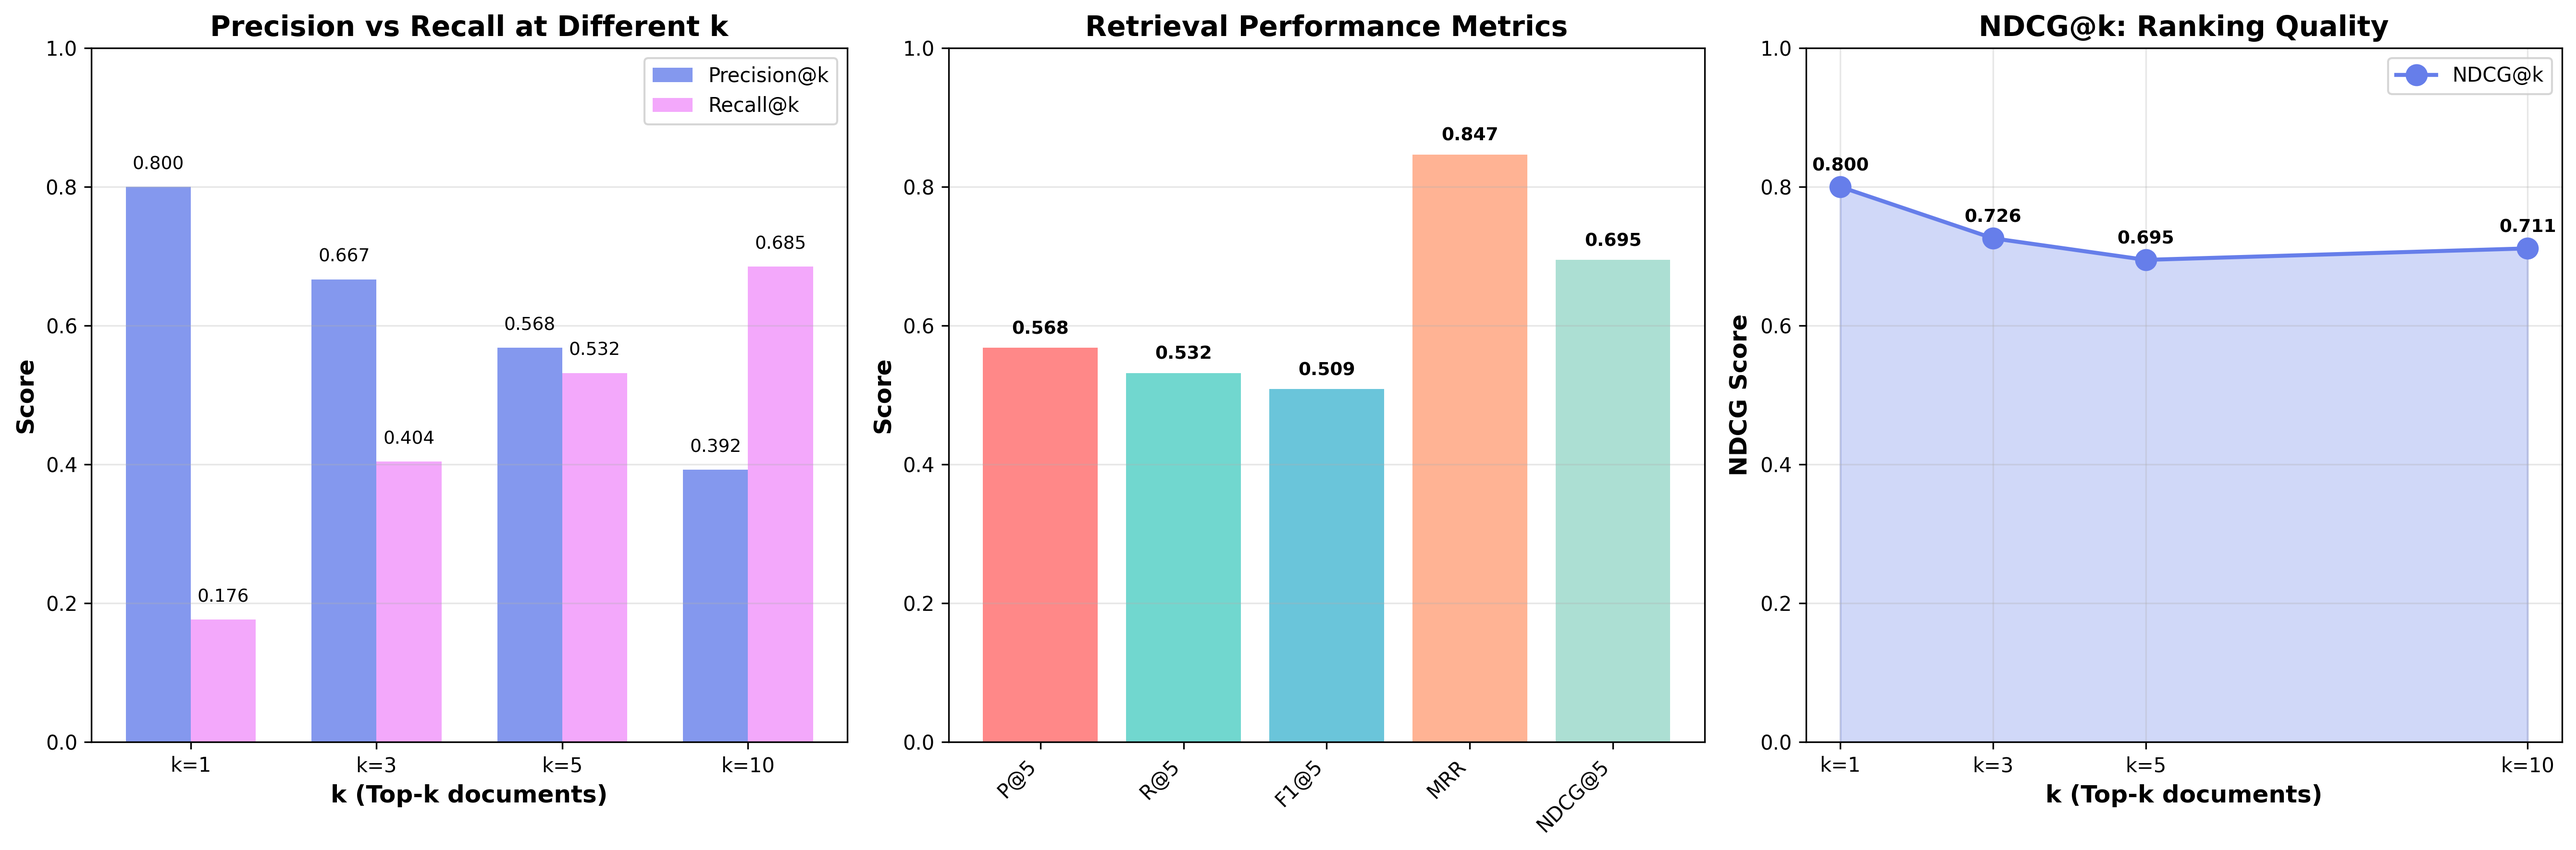
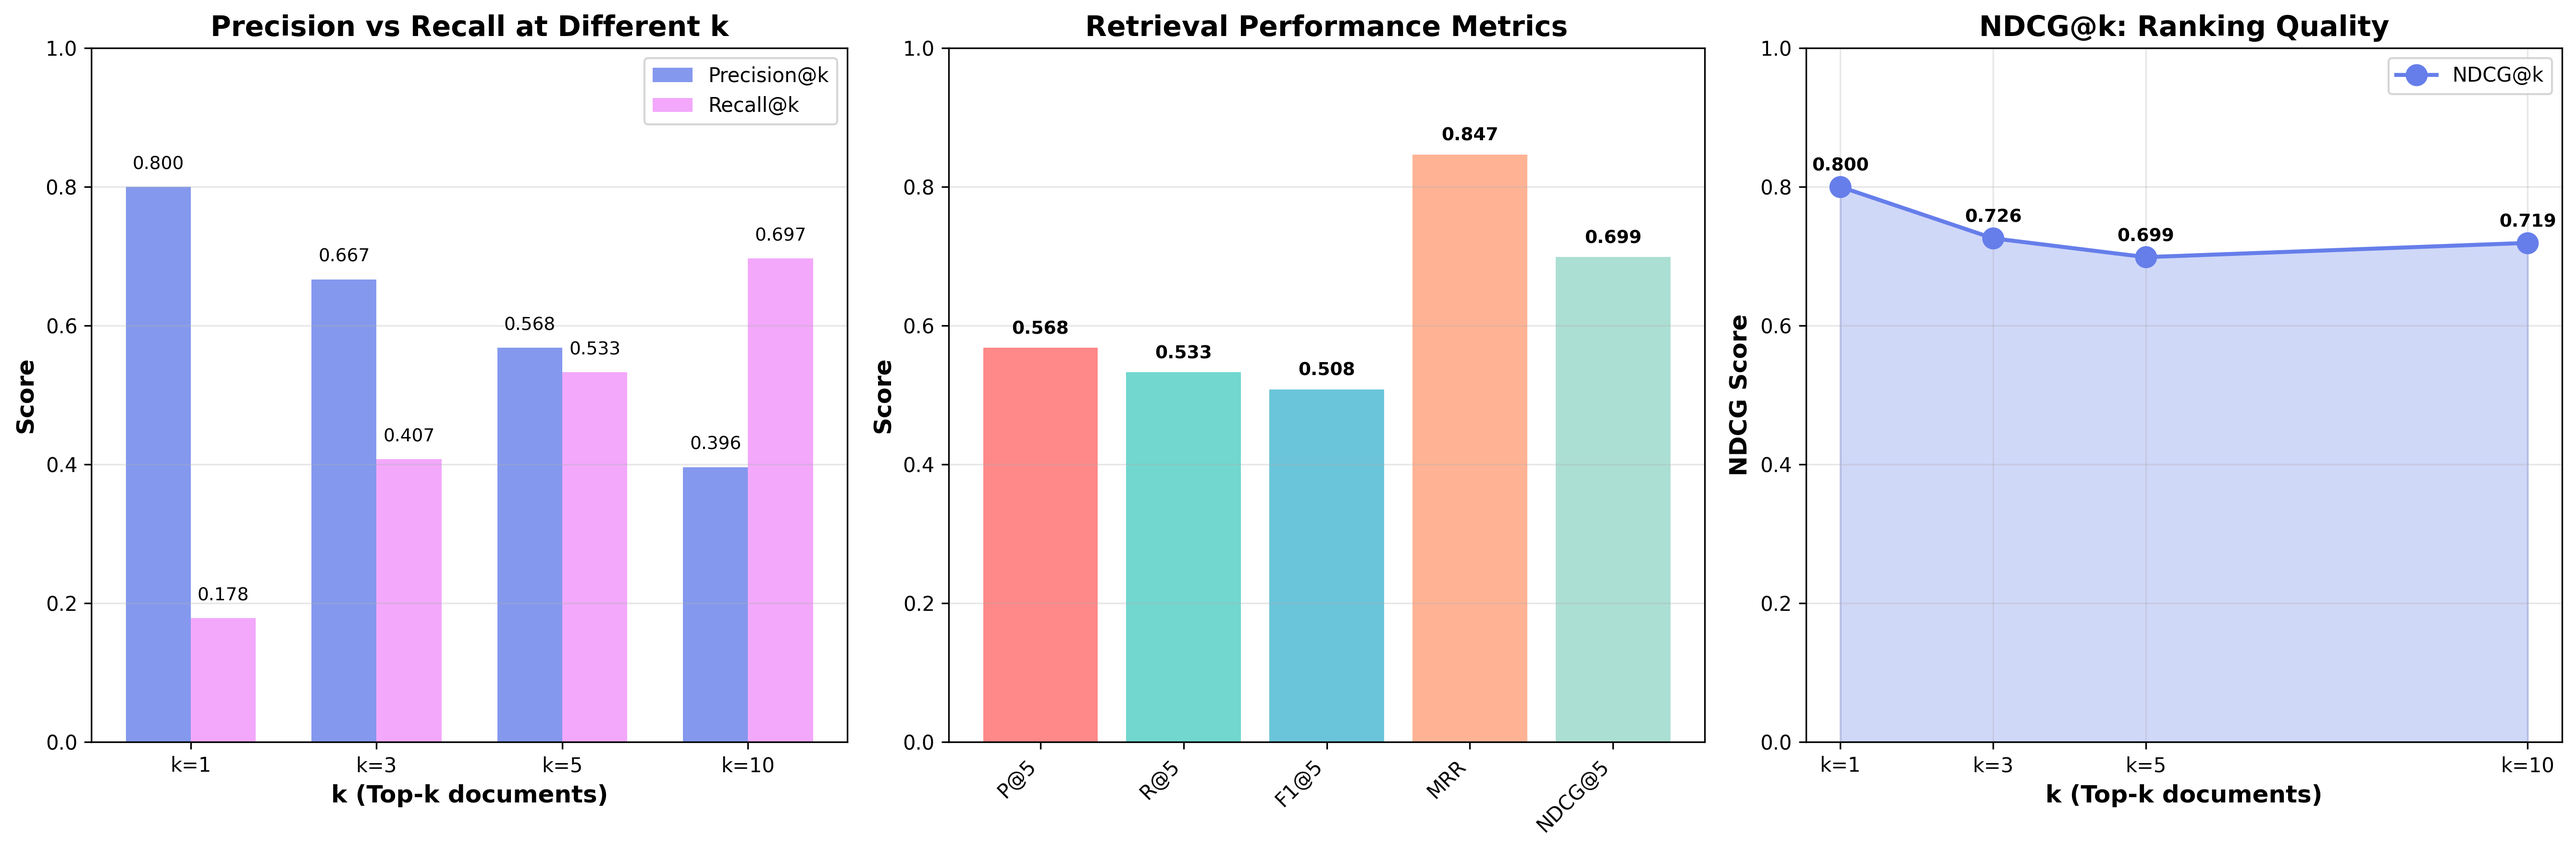
x

Changed region(s): [[0.8101, 0.2486, 0.997, 0.3107], [0.592, 0.2797, 0.6543, 0.3107], [0.2804, 0.2797, 0.3116, 0.3107]]

diff --git a/backend/evaluation/run_full_evaluation.py b/backend/evaluation/run_full_evaluation.py
@@ -45,7 +45,7 @@ if not os.path.exists(pdf_path):
     print(f"❌ ERROR: PDF not found: {pdf_path}")
     sys.exit(1)
 
-pipeline = RAGPipeline(chunk_size=800, chunk_overlap=100, k=7)
+pipeline = RAGPipeline(chunk_size=800, chunk_overlap=100, k=5)
 pipeline.process_document(pdf_path)
 
 print("✅ Pipeline ready!")
